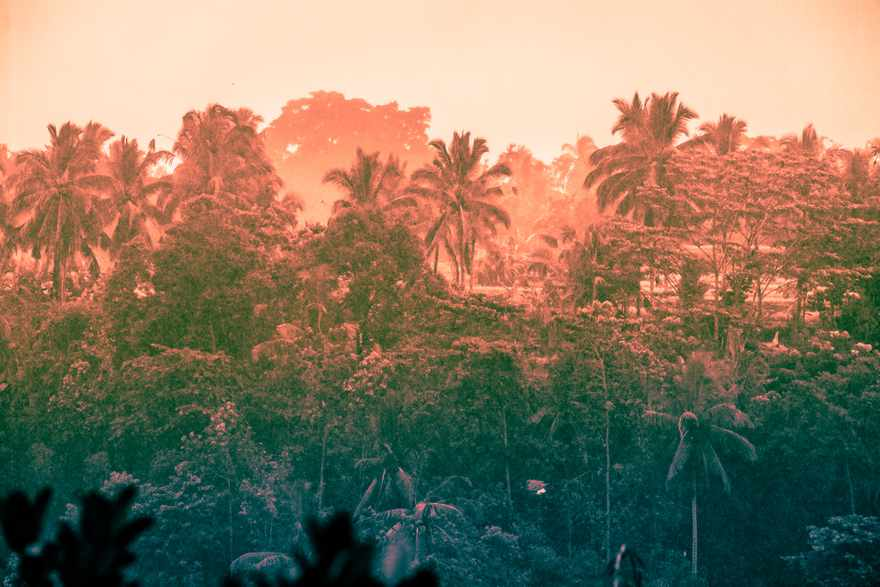
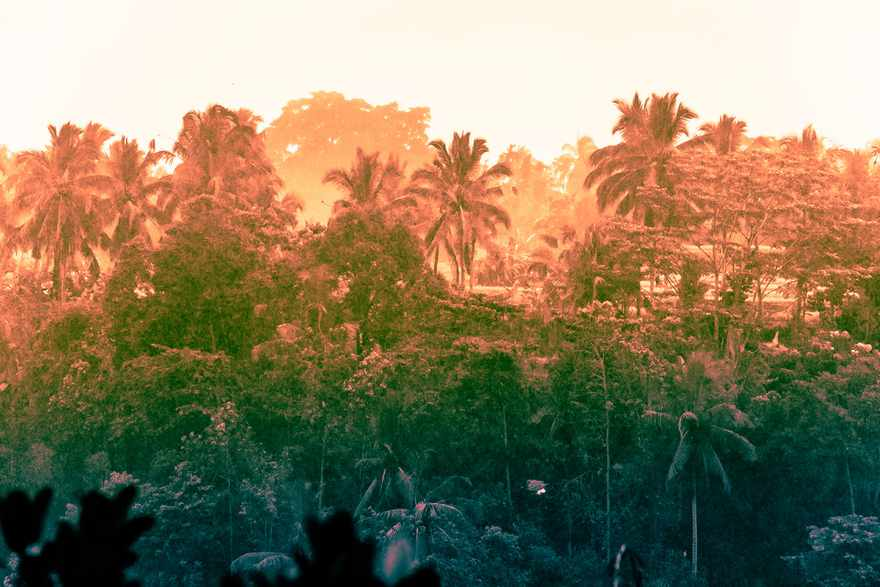
new colors for some shots + added one in Ocean among us

diff --git a/_posts/2019-01-01-080413_4900.md b/_posts/2019-01-01-080413_4900.md
@@ -1,0 +1,10 @@
+---
+permalink: "080413_4900"
+year: 2016
+title: The Ocean Among Us 4
+show_in_home: #true or blank
+publish: # notyet or blank
+image: /assets/p/art-photographs/rokma_art_photography-080413_4900.jpeg
+tags:  ocean Bali
+serie: The Ocean Among Us
+---
